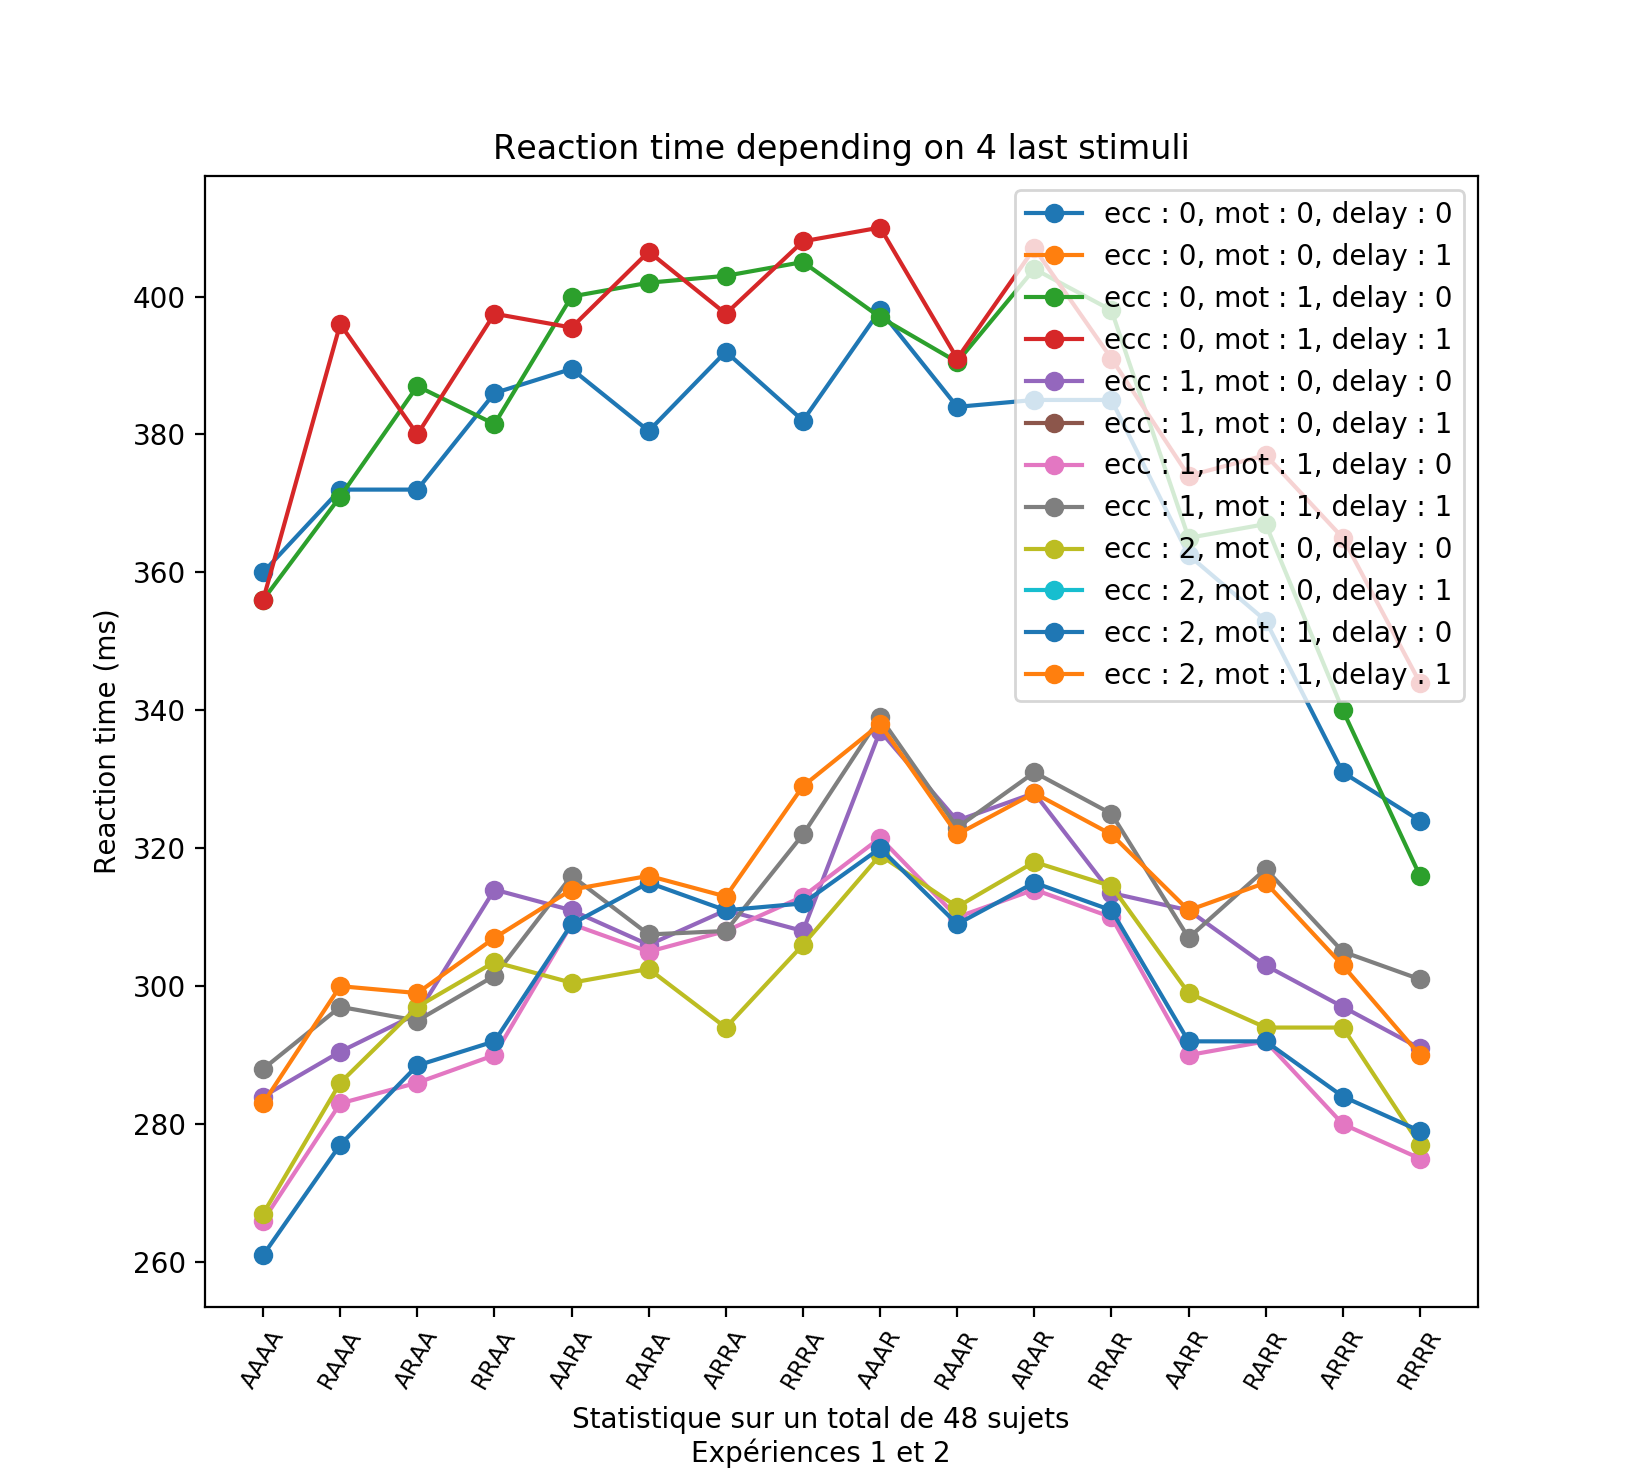
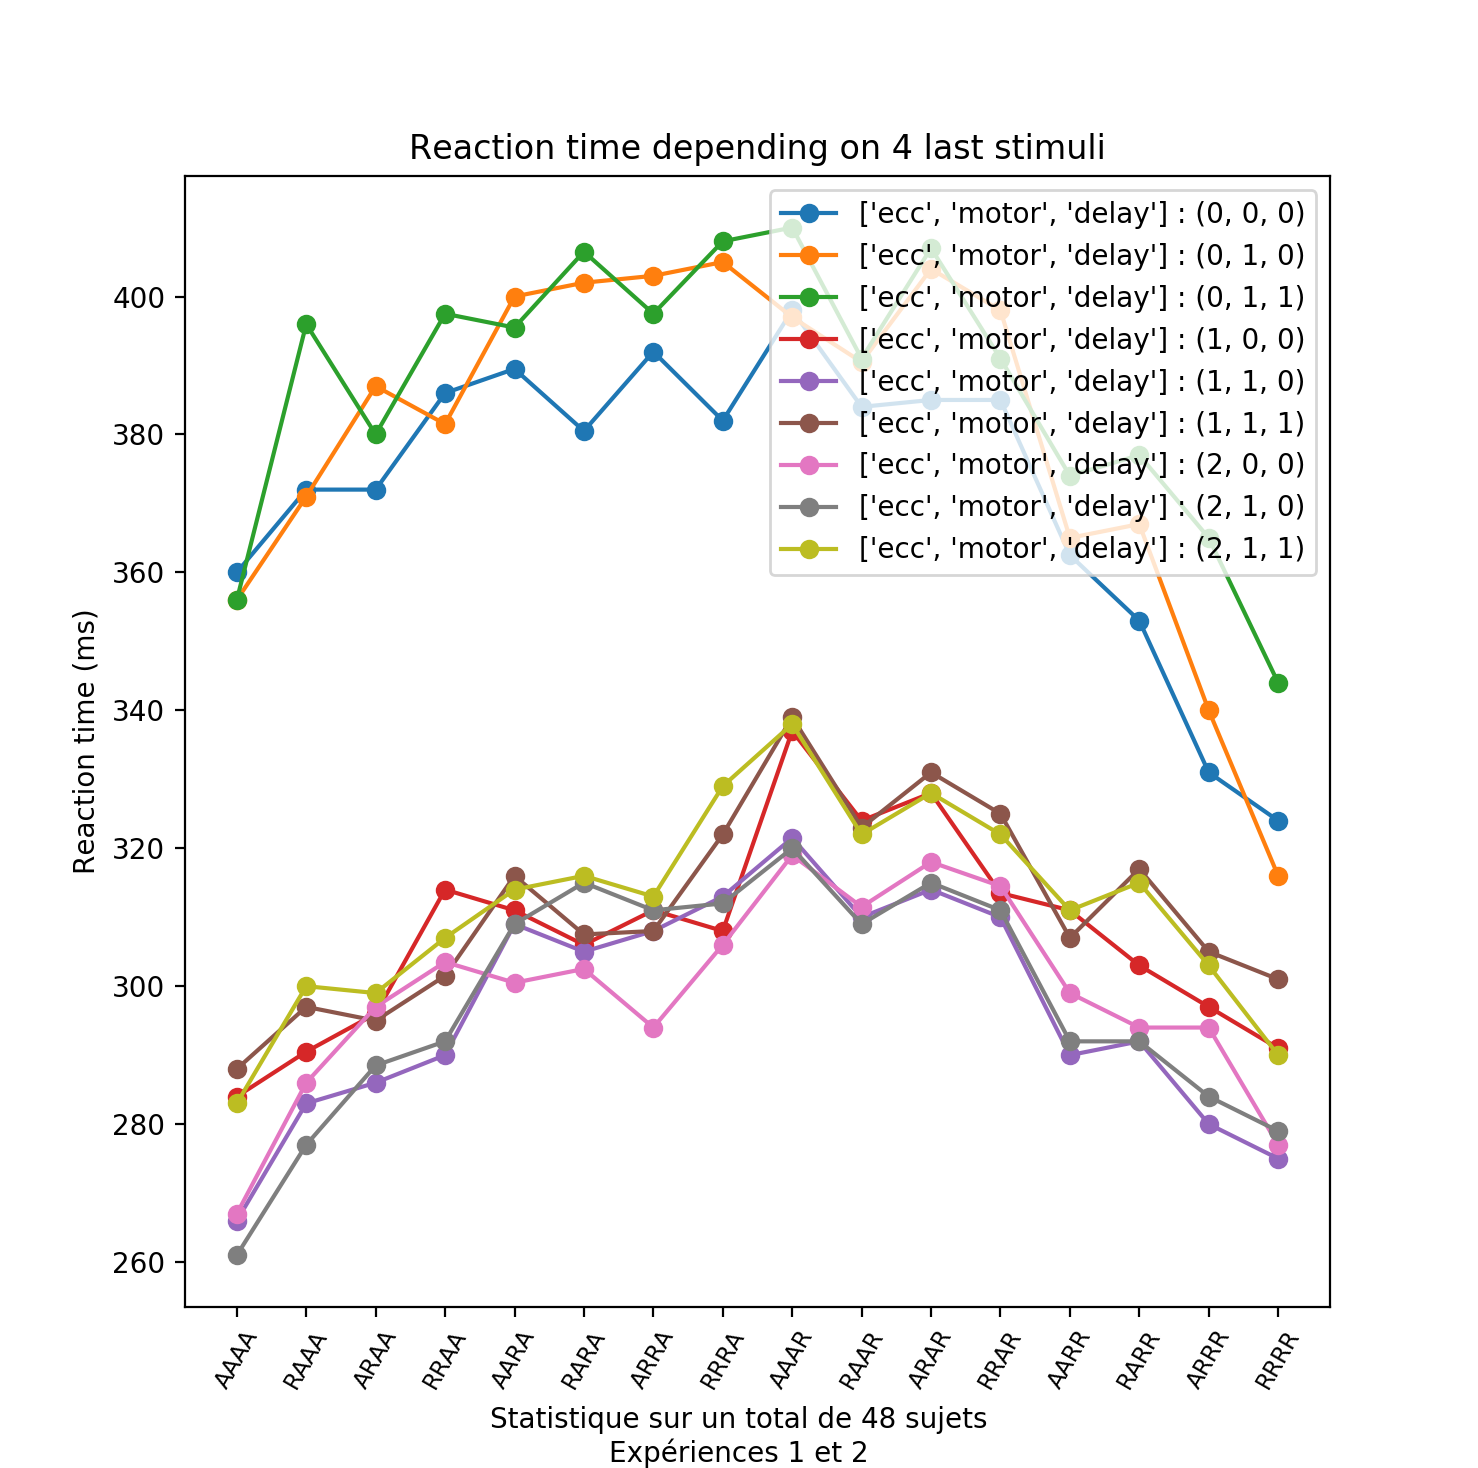
Update SeqAnalysis
Update script, add graphs

diff --git a/Data analysis/SeqAnalysis.py b/Data analysis/SeqAnalysis.py
@@ -10,20 +10,18 @@ Script to quickly analyze the reaction time depending on past stimuli.
 
 import os
 from utils import import_one_subject, get_serie_data
-from FilterData import import_good_enough_pd
+from FilterData import import_good_enough_pd, info_data
 import numpy as np
 import pandas as pd
 import matplotlib.pyplot as plt
 
+
 ## Set parameters
 
 k = 4 # order of history
-exp_type = 1
-
-## Import all data
-
-df = import_good_enough_pd(exp_type, dev = False)
-N = df.shape[0] # number of rows
+maxi = 15
+exp_type = 0 # 1 for delay, 0 for motricity
+factors = ['ecc', 'motor'] # list of factors to be distinguished (among 'ecc', 'motor', 'delay')
 
 
 ## Conversion functions
@@ -48,35 +46,49 @@ def str_of_seq(seq): # write sequence as a string of A's and R's
     return ''.join(list(map(lambda x: 'R' if x else 'A', seq)))
 
 
-## Add column for history
+## Import all data
 
-historyId = [None for ind in range(N)]
+df = import_good_enough_pd(maxi, exp_type)
+N = df.shape[0] # number of rows
+
+
+## Operate on dataframe
+
+historyId = [None for ind in range(N)] # add history column
 for ind in range(N):
     if df.iloc[ind]["trial"] >= k:
         historyId[ind] = int_of_seq([df.iloc[ind-k+i+1]["rep"] for i in range(k)])
 df["HistoryId"] = historyId
 
+print(df)
+correct_df = df[df['Correct'] == True]
+print(correct_df)
+partial_df = correct_df[factors + ['HistoryId', 'RT']]
+print(partial_df)
+perf_df = partial_df.groupby(factors + ['HistoryId']).median()
+print(perf_df)
+exploitable_df = perf_df.reset_index(level='HistoryId')
+print(exploitable_df)
 
-## Plot histogram
+## Plot graphs
 
-plt.figtext(0.5,0, "Statistique sur un total de 49 sujets (18 expérience 1 + 38 expérience 2)", verticalalignment='bottom', horizontalalignment='center')
+conditions = {}
 
-for ecc in np.sort(df["ecc"].unique()):
-    for mot in np.sort(df["motor"].unique()):
-        for delay in np.sort(df["delay"].unique()):
+for i in exploitable_df.index.unique(): # different graphs
+    print(i)
+    conditions[i] = {'x' : [], 'RT' : []}
+for i, row in exploitable_df.iterrows(): # data for each graph
+    conditions[i]['x'].append(row['HistoryId'])
+    conditions[i]['RT'].append(row['RT'])
 
-            mask = (df["ecc"] == ecc) & (df["motor"] == mot) & (df["delay"] == delay) & df["Correct"]
-            x = np.sort(df[mask]["HistoryId"].unique())
-            y = []
-            for histId in x:
-                mask_hist = df["HistoryId"] == histId
-                RT = df[mask & mask_hist]["RT"].median()
-                y.append(RT)
+for i in conditions:
+    plt.plot(conditions[i]['x'], conditions[i]['RT'], "o-", label = "{} : {}".format(str(exploitable_df.index.names), str(i)))
 
-            plt.plot(x, y, "o-", label = "ecc : %s, mot : %s, delay : %s" % (ecc, mot, delay))
-
-plt.xticks(x, [str_of_seq(seq_of_int(i, k)) for i in range(N)], rotation=60, fontsize='small')
+plt.xticks([n for n in range(16)], [str_of_seq(seq_of_int(n, k)) for n in range(N)], rotation=60, fontsize='small')
 plt.ylabel("Reaction time (ms)")
 plt.title("Reaction time depending on %s last stimuli" % (str(k)))
 plt.legend()
+
+info_data(maxi, exp_type)
+
 plt.show()
